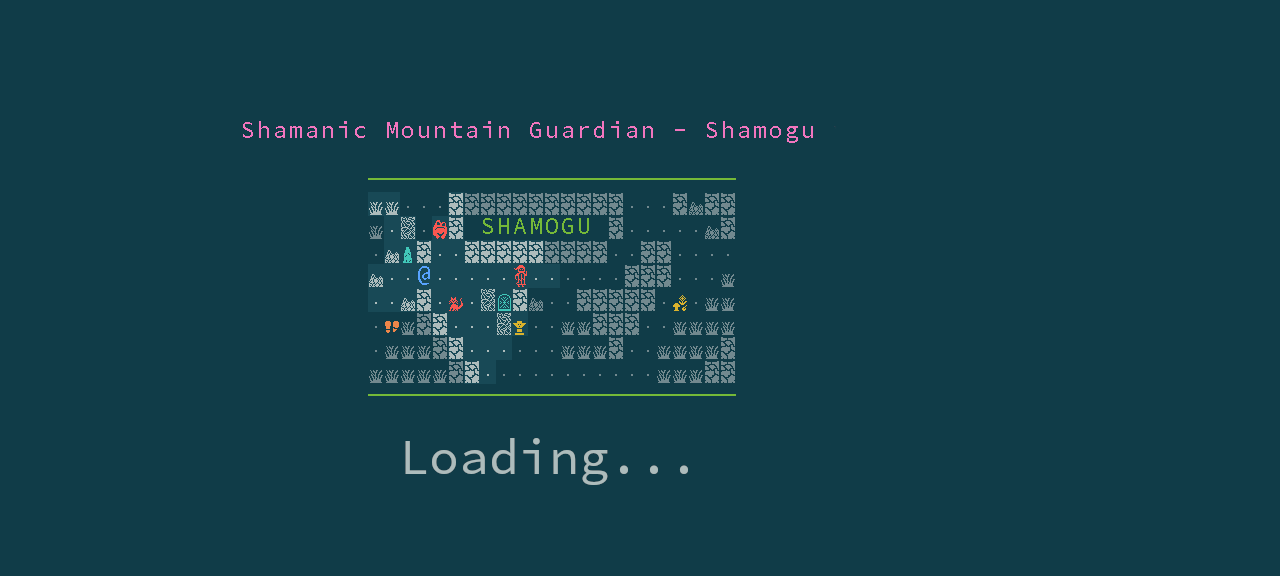
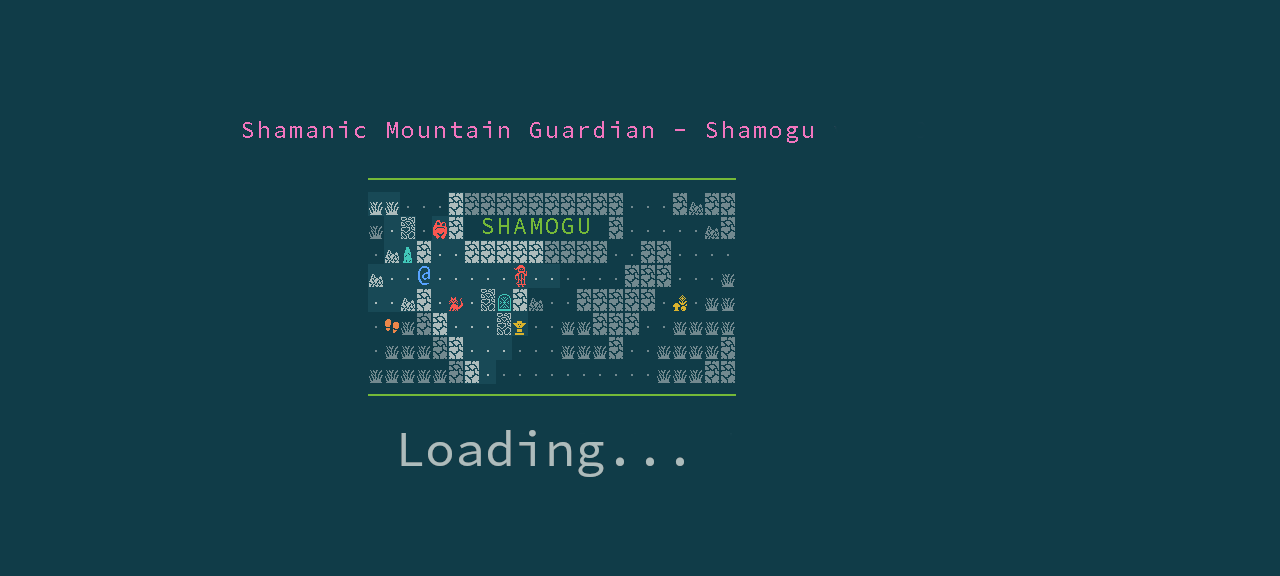
update CHANGES and Version for release

Changed region(s): [[0.3125, 0.75, 0.5312, 0.8438]]

diff --git a/game.go b/game.go
@@ -8,7 +8,7 @@ import (
 )
 
 // Version is the game's version string of the last release.
-const Version = "v1.0.0"
+const Version = "v1.1.0"
 
 // InvalidPos is a special variable containing an invalid position.
 var InvalidPos = gruid.Point{-1, -1}

diff --git a/CHANGES.md b/CHANGES.md
@@ -1,4 +1,7 @@
-# v? ?
+# v1.1.0 2025-10-27
+
+This release is a polishing one with some gameplay improvements and various
+fixes.
 
 Reworked and improved content:
 
@@ -20,6 +23,8 @@ Reworked and improved content:
   Note that earth dragons and Rampaging Boar players with Dig still perform
   pushing in melee as before. See discussion in issue #4 for some context
   around this change.
+* Disable Cat swapping while lignified even with woody legs, as it's more a
+  teleport-like kind of movement (see #4).
 * Lignification now unbalances adjacent actors on expiration, too, due to
   withering roots messing with nearby ground.
 * The lich is now immune to Confusion, and the undead knight is immune to Daze.
